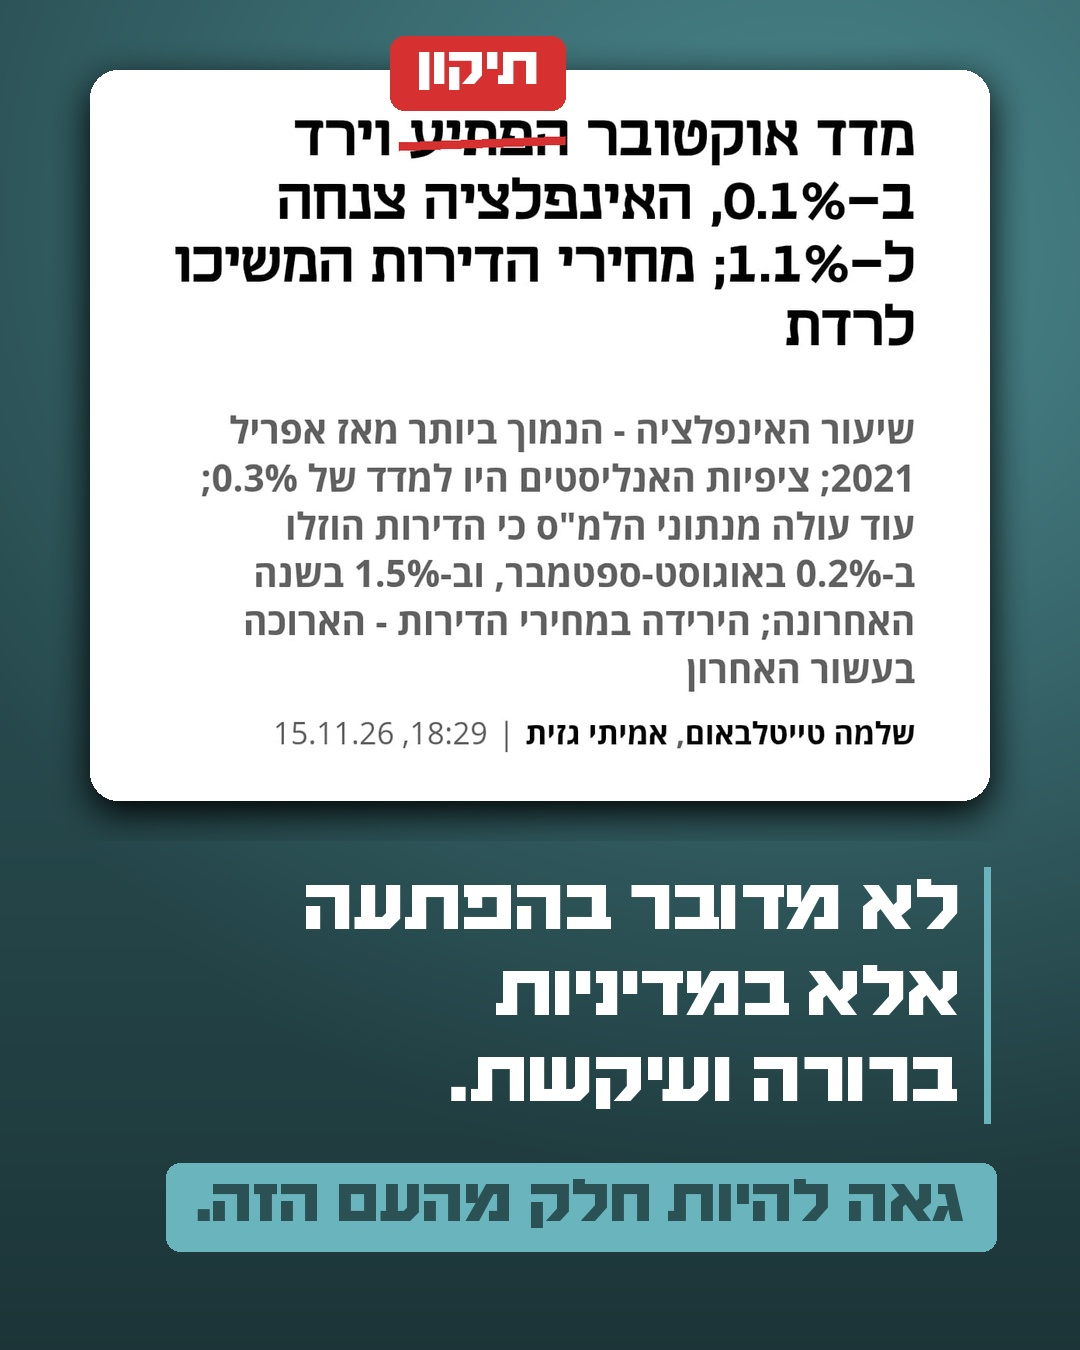
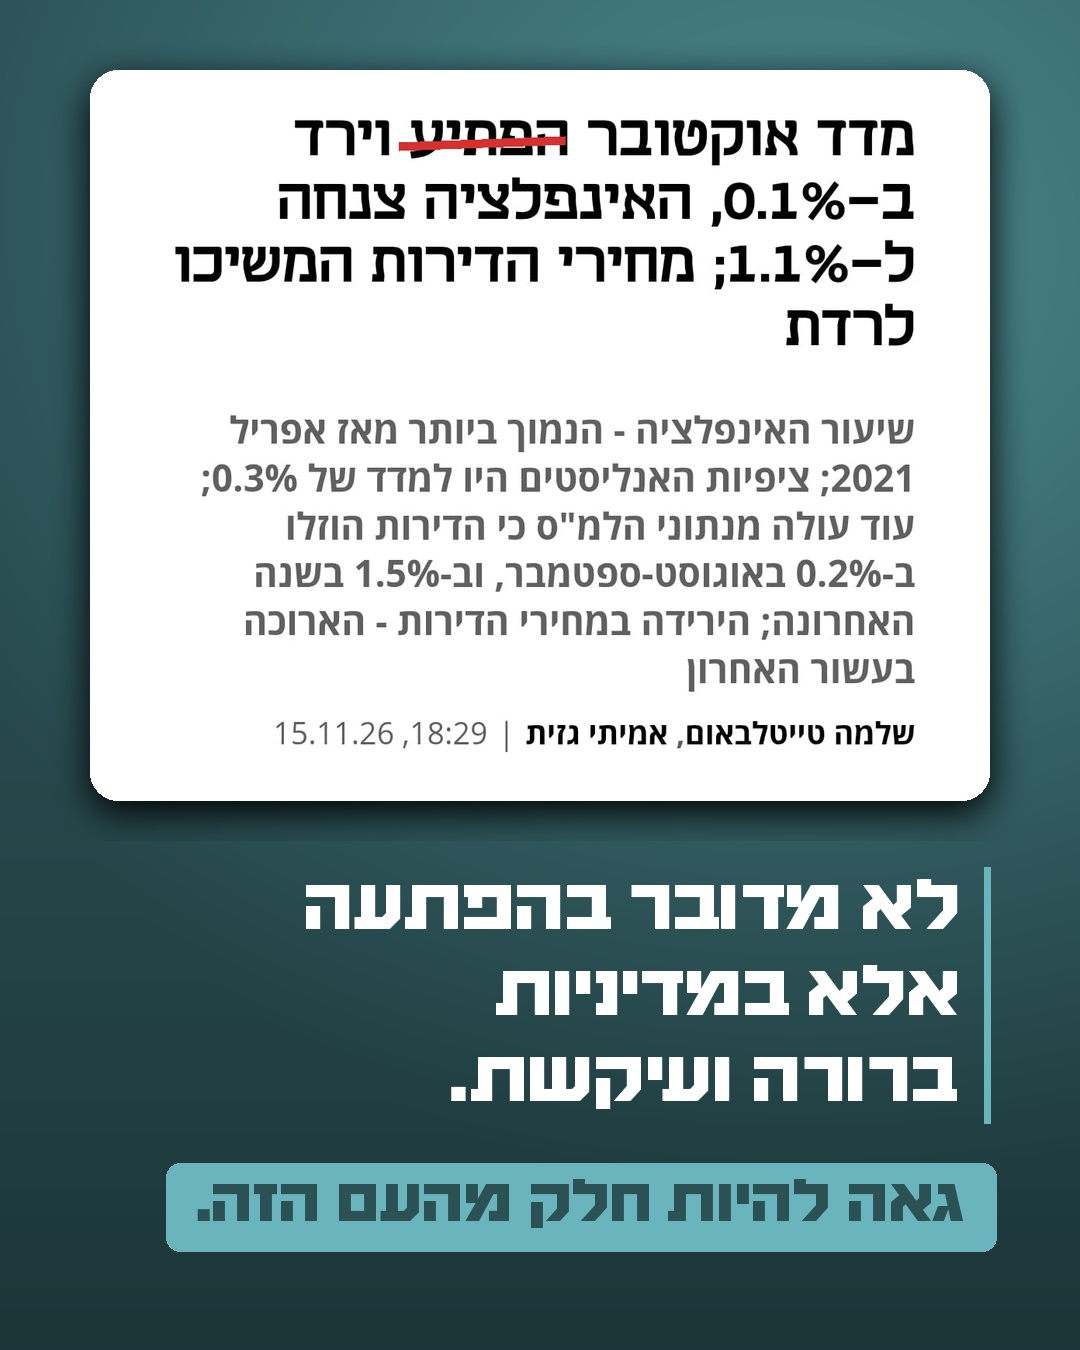
RZ CPI post: remove correction tag, update caption
Claude-Session: https://claude.ai/code/session_01RS3QK6pAd3YhyAuXZSJjH1

Changed region(s): [[0.3361, 0.0, 0.55, 0.0933]]

diff --git a/content-kit/hatzionut-hadatit/2026-11-post-cpi-october/make.py b/content-kit/hatzionut-hadatit/2026-11-post-cpi-october/make.py
@@ -19,10 +19,6 @@ cw = 900; s = cw / pad.width; card = pad.resize((cw, int(pad.height * s)), Image
 m = Image.new('L', card.size, 0); ImageDraw.Draw(m).rounded_rectangle((0, 0, card.width - 1, card.height - 1), 28, fill=255)
 sh = Image.new('L', (card.width + 80, card.height + 80), 0); sh.paste(m, (40, 52)); sh = sh.filter(ImageFilter.GaussianBlur(18))
 TOP = 70; X0 = (W - cw) // 2; im.paste((0, 0, 0, 120), (X0 - 40, TOP - 40), sh); im.paste(card, (X0, TOP), m)
-# 'תיקון' tag pinned on the card's top edge, above the struck word
-tf = F(KB, 54); tw = d.textlength('תיקון', font=tf, direction='rtl'); tx = X0 + (40 + 460) * s
-d.rounded_rectangle((tx - tw / 2 - 26, TOP - 34, tx + tw / 2 + 26, TOP + 40), 14, fill=RED)
-d.text((tx, TOP - 30), 'תיקון', font=tf, fill=(255, 255, 255), anchor='ma', direction='rtl')
 R = W - 90; y = TOP + card.height + 60
 d.rectangle((R - 6, y + 6, R, y + 262), fill=LT)
 fk = F(KB, 74)

diff --git a/content-kit/hatzionut-hadatit/2026-11-post-cpi-october/caption.md b/content-kit/hatzionut-hadatit/2026-11-post-cpi-october/caption.md
@@ -1,3 +1,3 @@
-תיקון: לא מדובר בהפתעה אלא במדיניות ברורה ועיקשת שאני מוביל במהלך כל שנות כהונתי כשר האוצר. יחד עם הצוותים המסורים של משרד האוצר אנחנו מובילים כלכלה מובילה, משגשגת, משתלמת בכיס של כל אזרח.
+לא מדובר בהפתעה אלא במדיניות ברורה והעיקשת שאני מוביל במהלך כל שנות כהונתי כשר האוצר. יחד עם הצוותים המסורים של משרד האוצר אנחנו מובילים כלכלה מובילה, משגשגת, משתלמת בכיס של כל אזרח.
 אמשיך לשרת את הציבור כולו ולא בעלי השפעה ואינטרסים זרים.
 שוב עם ישראל מוכיח כי למרות תקופות קשות ומלחמה ארוכה, יש לנו עוצמה כלכלית שאין בשום מקום אחר בעולם. גאה להיות חלק מהעם הזה.
